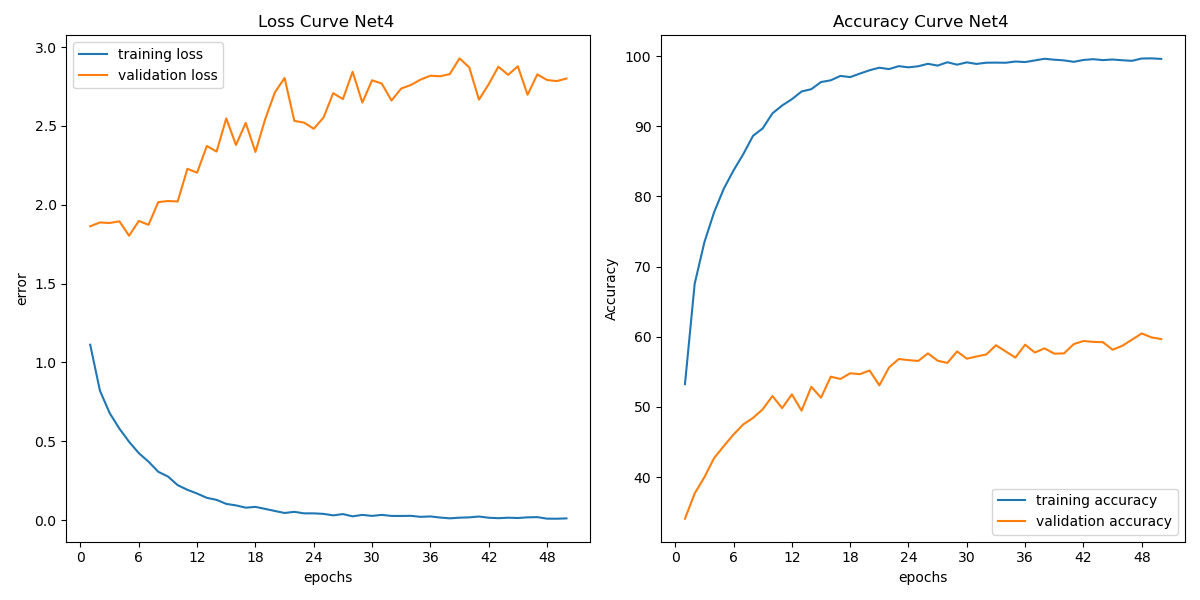
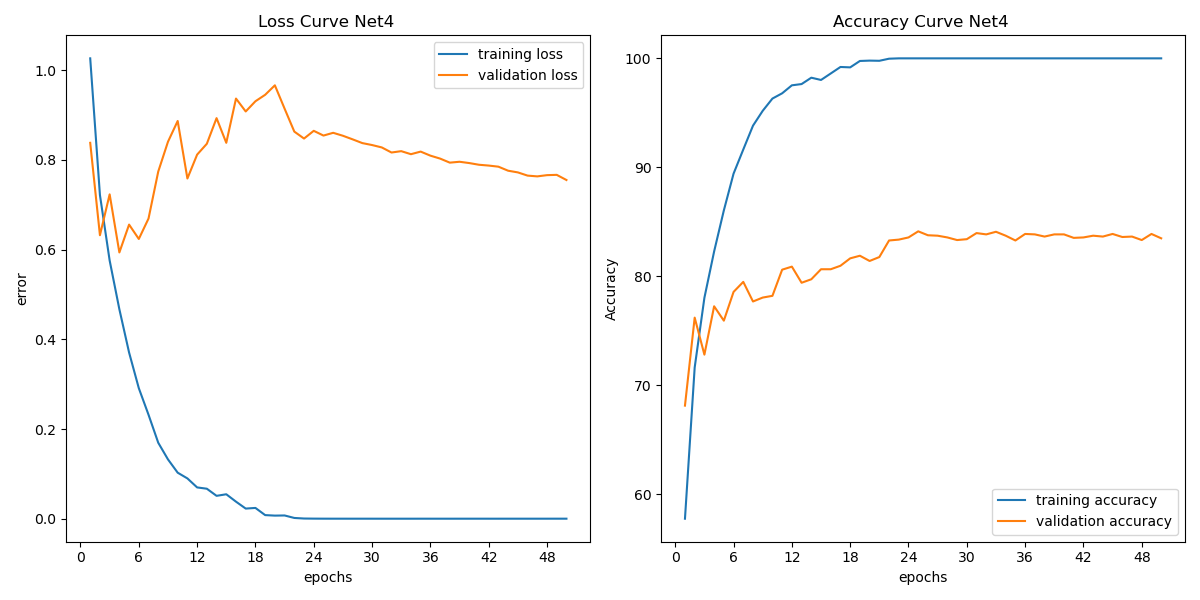
Added benchmark values

diff --git a/code/src/train_benchmark.py b/code/src/train_benchmark.py
@@ -63,9 +63,9 @@ model_list = sorted(model_list)
 
 for m in model_list:
     model_path = model_dir + "/" + m
-    checkpoint = torch.load(f=model_path,map_location=torch.device('cpu'))
+    checkpoint = torch.load(f=model_path)
     epoch = checkpoint['epoch'] + 1
-    if (m.split('_')[0]=='Net4') :
+    if (epoch % 10 == 0) :
         if (m.split('_')[0] == 'Net1'):
             net = Net1()
         else:
@@ -76,12 +76,28 @@ for m in model_list:
                     net = Net3()
                 else:
                     net = Net4()
-        
+        if torch.cuda.is_available():
+            net = net.cuda()
+
         net.load_state_dict(checkpoint['model_state_dict'])
         net.eval()
         v_loss, v_acc = test(valloader,net, criterion)
         t_loss, t_acc = test(testloader,net,criterion)
         print("%15s %15s %15s %15s" %(m.split('_')[0], str(epoch), str(v_acc), str(t_acc)))
+#m = 'Net4_10.pth'
+#model_path = '../models/Net4_10.pth'
+
+#checkpoint = torch.load(f=model_path)
+#epoch = checkpoint['epoch'] + 1
+#net = Net4()
+#if torch.cuda.is_available():
+#    net = net.cuda()
+#net.load_state_dict(checkpoint['model_state_dict'])
+#net.eval()
+#v_loss, v_acc = test(valloader,net, criterion)
+#t_loss, t_acc = test(testloader,net,criterion)
+#print("%15s %15s %15s %15s" %(m.split('_')[0], str(epoch), str(v_acc), str(t_acc)))
+
 
 
 

diff --git a/code/src/train.py b/code/src/train.py
@@ -174,16 +174,17 @@ def trainModel(model_name, net, num_epochs, optimizer, criterion):
     for epoch in range(num_epochs):  # loop over the dataset multiple times
         print('epoch ', epoch + 1)
         epoch_train_loss, epoch_train_acc = train(epoch, trainloader, net, optimizer, criterion)
+        net.eval()
         epoch_val_loss, epoch_val_acc = test(valloader, net, criterion)
         classwise_test(valloader, net)
-
+        
         train_loss.append(epoch_train_loss)
         train_acc.append(epoch_train_acc)
 
         val_loss.append(epoch_val_loss)
         val_acc.append(epoch_val_acc)
 
-        
+        net.train()
         # Checkpoint model every 10 epochs
         if ((epoch + 1) % 5 == 0) :
             model_path = '../models/'+str(model_name)+'_'+str(epoch+1)+'.pth'
@@ -233,6 +234,7 @@ from classifiers import Net1, Net2, Net3, Net4
     # trainModel(model_name, net, num_epochs, optimizer, criterion)
 
 net = Net4()
+print(net)
 optimizer = optim.SGD(net.parameters(),lr = learning_rate, momentum=0.9, weight_decay=5e-4)
 model_name = "Net4"
 print( 'On %s' %(model_name) )

diff --git a/code/src/classifiers.py b/code/src/classifiers.py
@@ -160,10 +160,8 @@ class Net4(nn.Module):
         self.pool = nn.MaxPool2d(kernel_size=2, stride=2)
         
         self.linear_block = nn.Sequential(
-            nn.Dropout(),
             nn.Linear(2*2*256, 512),
             nn.ReLU(),
-            nn.Dropout(0.2),
             nn.Linear(512, 128),
             nn.ReLU(),
             nn.Linear(128,5)
